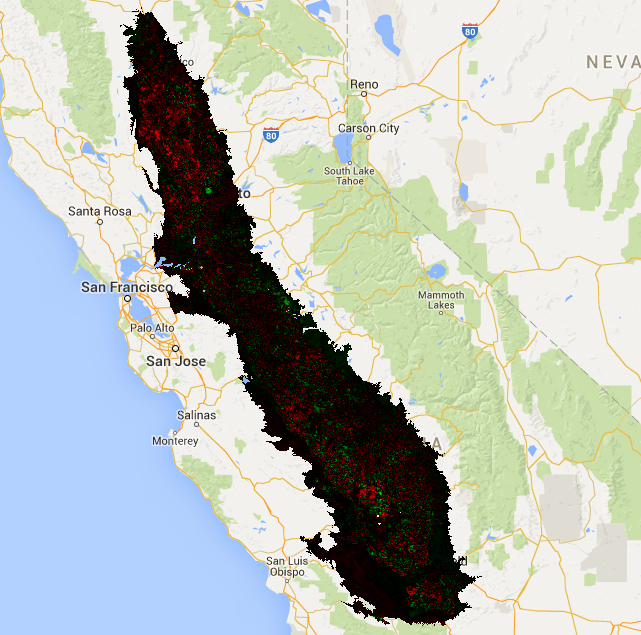
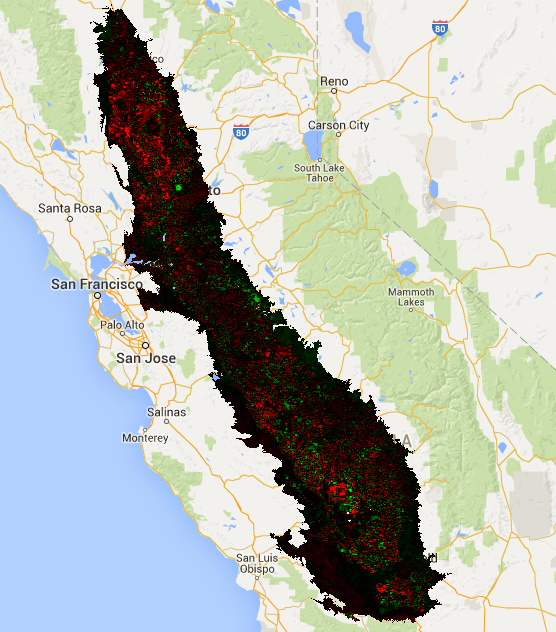
Final results discussion

diff --git a/CentralValleyNDVI.js b/CentralValleyNDVI.js
@@ -7,7 +7,7 @@
 ///////////////
 
 // Parameters
-var ndviParams = {palette: 'FF0000, 000000, 00FF00', min: -1, max: 1};
+var ndviParams = {palette: 'FF0000, 000000, 00FF00', min: -0.5, max: 0.5};
 var vizParams2010 = {bands: ['B3', 'B2', 'B1'], min: 0, max: 0.3};
 var vizParams2015 = {bands: ['B4', 'B3', 'B2'], min: 0, max: 0.3};
 var bands2010 = ['B1', 'B2', 'B3', 'B4'];

diff --git a/README.md b/README.md
@@ -396,7 +396,7 @@ I displayed my image as red where there had been a decrease in NDVI and green wh
 
 ```javascript
 // Map NDVI difference
-var ndviParams = {palette: 'FF0000, 000000, 00FF00', min: -1, max: 1};
+var ndviParams = {palette: 'FF0000, 000000, 00FF00', min: -0.5, max: 0.5};
 Map.addLayer(ndviDifference, ndviParams);
 ```
 
@@ -452,9 +452,20 @@ Threshold | Resulting Estimated Fallowed Area (sq km)
 <a name="results"></a>
 ## Results
 
-
-
 ###### Classification vs. NDVI Difference
+
+To review, the classification approach estimated 2622 square kilometers of fallowed land, while the NDVI difference approach estimated 2223 to 5200 square kilometers, depending on how strictly I set the threshold. While these estimates do not precisely match, they seem to be reasonably in the same neighborhood. I think the -0.3 or -0.4 NDVI difference thresholds are more likely to be closer to the truth: a decline of 0.2 could simply be due to stressed vegetation or a different type of vegetation, and the probability of this being the case decreases as the threshold becomes stricter. The average of the estimates resulting from the two stricter thresholds is 2820.5 square kilometers, which is quite close to the classification approach's estimate. So as a very provisional figure, it is likely safe to say that the amount of fallowed land in California's Central Valley was around 2000 to 3500 square kilometers in the summer of 2015.
+
+
+
+
+###### Additional Considerations
+
+Keep in mind, some land was likely regularly fallowed rather than fallowed due to drought, since farmers often let their fields rest to allow the soil time to recuperate. So these numbers likely are higher than the acreage specifically fallowed due to drought.
+
+One way to set a firmer threshold for the NDVI approach would be to use the method proposed by [Thenkabail, Gamage, and Smakhtin](http://www.iwmi.cgiar.org/Publications/IWMI_Research_Reports/PDF/pub085/RR85.pdf) (2004). Rather than a simple difference of two years, they propose finding the average NDVI value of a pixel over a longer time span of years (18 years in their example) and using the year of interest's deviation from this mean as an indication of below-normal vegetation condition/health. Extending this method by using a threshold set by that pixel's standard deviation would make for a more rigorous estimate of fallowing using the NDVI approach. (It still involves choosing a threshold somewhat arbitrarily, but it would at least be a more informed choice.)
+
+As a final note, much of California's Central Valley actually experiences two growing seasons, so redoing this analysis for the winter months could also be interesting.
 
 <a name="bib"></a>
 ### Sources
@@ -470,6 +481,8 @@ Griffin, D and KJ Anchukaitis. “How unusual is the 2012–2014 California drou
 Liaw, A and M Wiener. "Classification and Regression by randomForest." *R News* 2.3 (2002): 18-22.
 
 Lund, J. "The banality of California's '1200-year' drought." *California WaterBlog*. September 23, 2015.
+
+Thenkabail, PS, MSDN Gamage, and VU Smakhtin. *The use of remote sensing data for drought assessment and monitoring in Southwest Asia*. Vol. 85. International Water Management Institute, 2004.
 
 U.S. Geological Survey. "SLC-off Products: Background." 2015. http://landsat.usgs.gov/products_slcoffbackground.php
 
